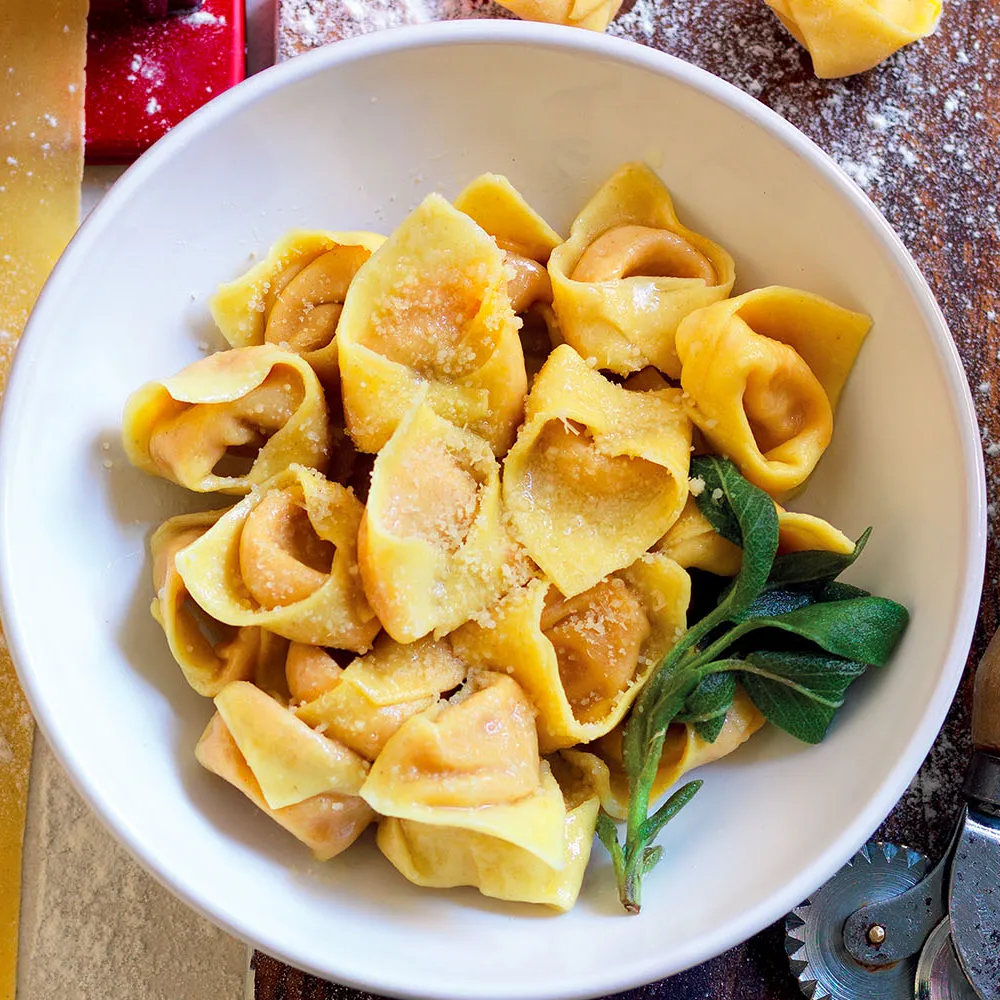
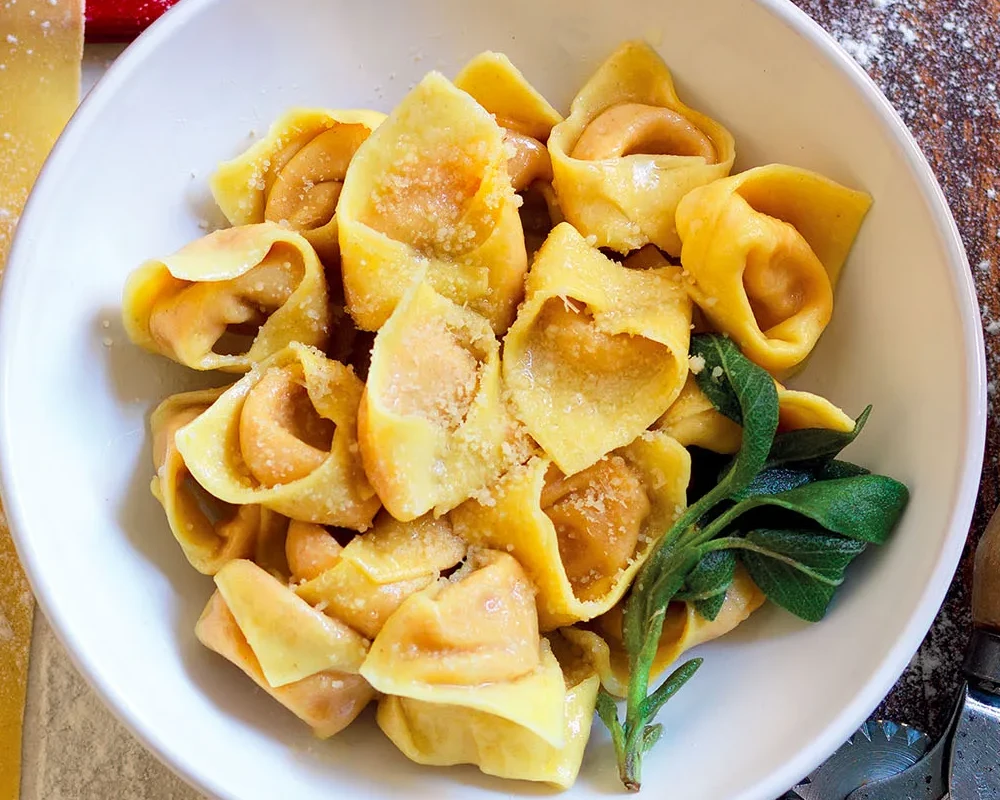
update format images

diff --git a/src/assets/images/menu-items/index.ts b/src/assets/images/menu-items/index.ts
@@ -1,27 +1,27 @@
-export { default as flanDiZucca} from './item-flan-di-zucca.jpg'
-export { default as polenta} from './item-polenta.jpg'
-export { default as tagliereRustico} from './item-tagliere-rustico-di-salumi-e-formaggi.png'
-export { default as tartareDiManzo} from './item-tartare-di-manzo.jpg'
+export { default as flanDiZucca} from './item-flan-di-zucca.webp'
+export { default as polenta} from './item-polenta.webp'
+export { default as tagliereRustico} from './item-tagliere-rustico-di-salumi-e-formaggi.webp'
+export { default as tartareDiManzo} from './item-tartare-di-manzo.webp'
 
-export { default as bigoli } from './item-bigoli-con-salsiccia-broccoli-e-pecorino.jpg'
+export { default as bigoli } from './item-bigoli-con-salsiccia-broccoli-e-pecorino.webp'
 export { default as cappellacci } from './item-cappellacci-di-zucca-tartufati.webp'
-export { default as gnocchetti } from './item-gnocchetti-gorgorzola-e-radicchio.jpg'
-export { default as pappardelle } from './item-pappardelle-alla-montanara.jpg'
+export { default as gnocchetti } from './item-gnocchetti-gorgorzola-e-radicchio.webp'
+export { default as pappardelle } from './item-pappardelle-alla-montanara.webp'
 export { default as ravioli } from './item-ravioli-ai-porcini-con-speck-sascarpone-e-noci.webp'
-export { default as risottoPorcini } from './item-risotto-porcini-e-taleggio.jpg'
+export { default as risottoPorcini } from './item-risotto-porcini-e-taleggio.webp'
 export { default as tagliolino } from './item-tagliolino-rustico-alla-carrettiera.webp'
 
 export { default as  tagliataDiManzo } from './item-tagliata-di-manzo-alla-toscana-con-patate.webp'
-export { default as  cotolettaAllaMilanese } from './item-cotoletta-alla-milanese.jpg'
+export { default as  cotolettaAllaMilanese } from './item-cotoletta-alla-milanese.webp'
 export { default as  rosticciataDiMaialino } from './item-rosticciata-di-maialino-con-patate.webp'
 export { default as  filetoDiManzo } from './item-filetto-di-manzo-alla-brace.webp'
-export { default as  filetoDiTonno } from './item-filetto-di-tonno-alla-catalana.jpg'
-export { default as  stincoBrasato } from './item-stinco-brasato-con-patate.jpg'
-export { default as  castratoAllaBrace } from './item-castrato-alla-brace.jpg'
+export { default as  filetoDiTonno } from './item-filetto-di-tonno-alla-catalana.webp'
+export { default as  stincoBrasato } from './item-stinco-brasato-con-patate.webp'
+export { default as  castratoAllaBrace } from './item-castrato-alla-brace.webp'
 export { default as  baccala } from './item-baccala-alla-vicentina-con-polenta.webp'
-export { default as  somarinoConPolenta } from './item-somarino-con-polenta.jpg'
-export { default as  galletoAllaDiavola } from './item-galletto-alla-diavola.jpg'
-export { default as  guanciottoDiManzo } from './item-guanciotto-di-manzo-brasato-al-vino-rosso.jpg'
+export { default as  somarinoConPolenta } from './item-somarino-con-polenta.webp'
+export { default as  galletoAllaDiavola } from './item-galletto-alla-diavola.webp'
+export { default as  guanciottoDiManzo } from './item-guanciotto-di-manzo-brasato-al-vino-rosso.webp'
 
 
 

diff --git a/src/components/menu/Menu.css b/src/components/menu/Menu.css
@@ -52,7 +52,11 @@
 
 .menu .grid-list.active { display: block; }
 
-.grid-list li {  background-color: #f2f2f2;}
+.grid-list li {  
+  margin-bottom: 1em;
+  border-radius: var(--radius-24);
+  background-color: #f2f2f2;
+}
 
 .menu-card {
   display: flex;
@@ -154,7 +158,7 @@
 
 }
 
-@media (min-width: 1000px) {
+@media (min-width: 900px) {
 
   .menu {
     margin-top: 100px;
